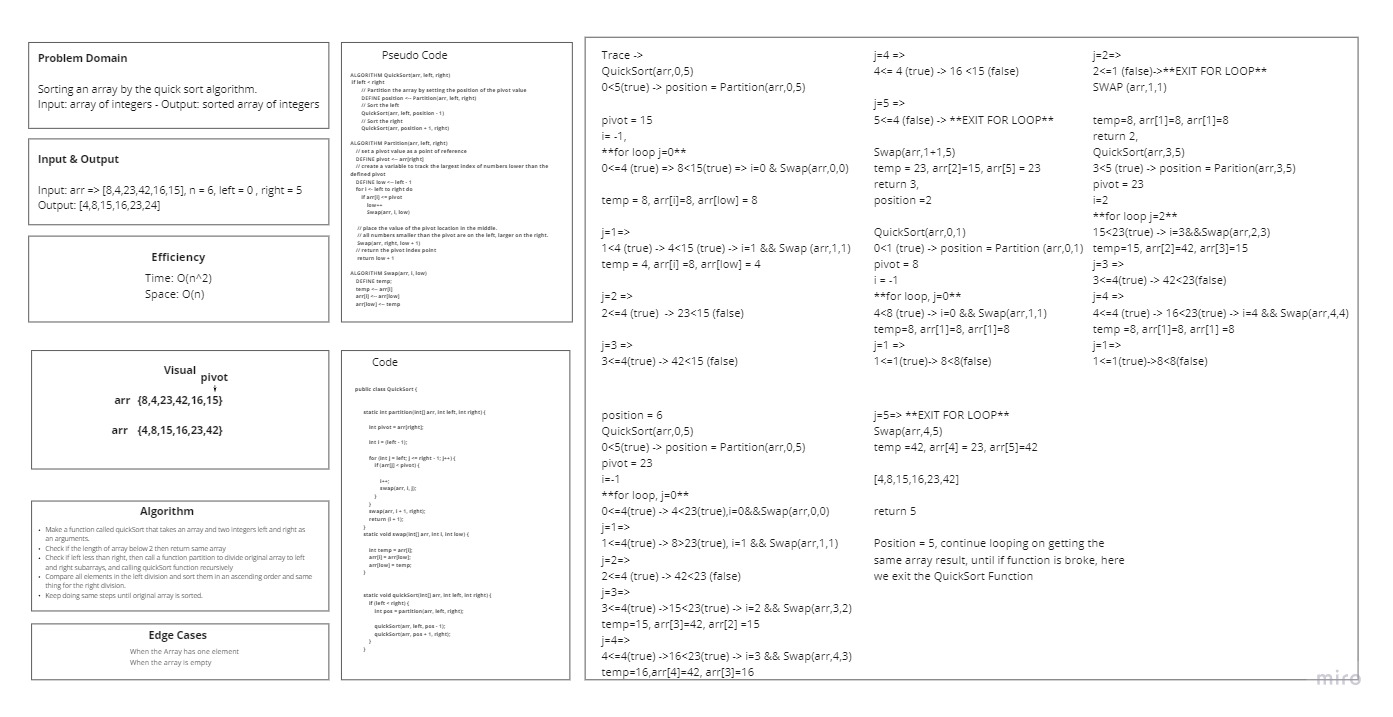
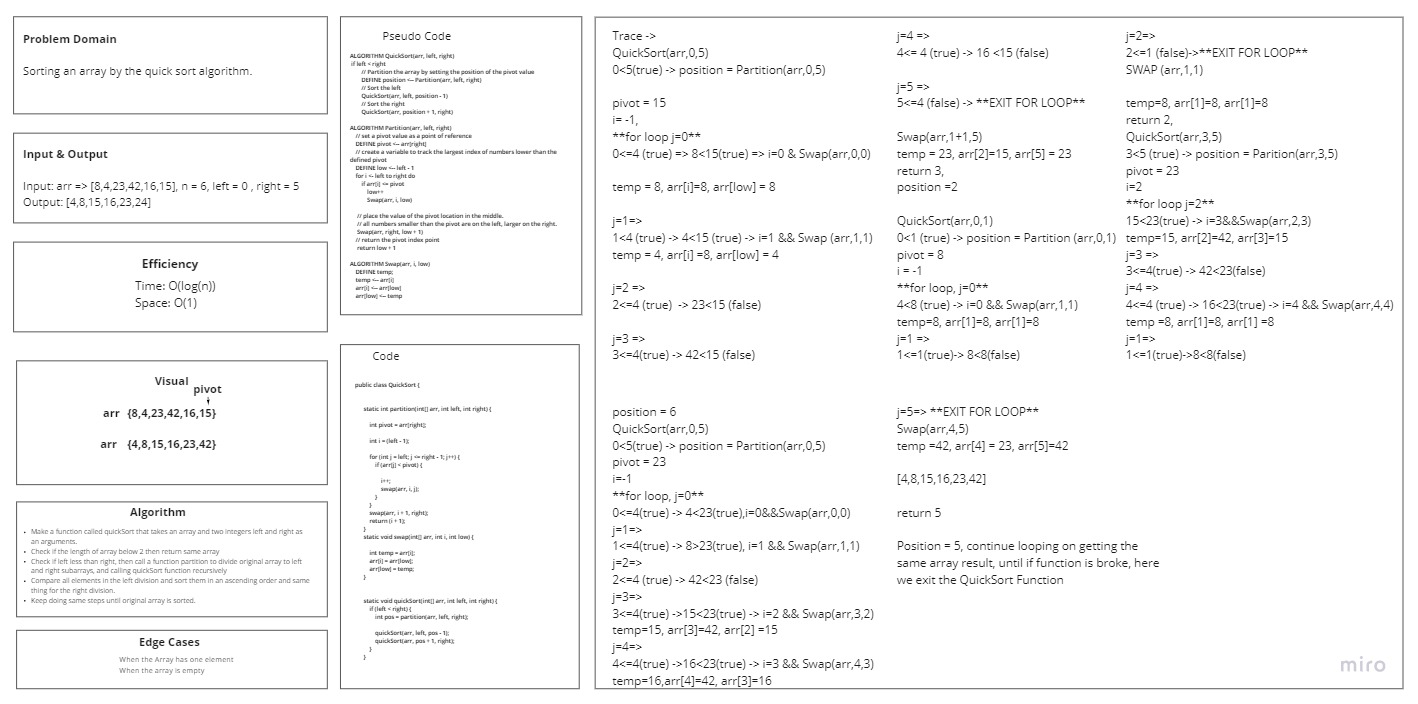
challenge 28 done

diff --git a/quickSort/BLOG.md b/quickSort/BLOG.md
@@ -8,5 +8,5 @@ Sorting an array by the quick sort algorithm.
 
 ## Approach & Efficiency
 
-- Space: O(n)
-- Time: O(n^2)
+- Space: O(1)
+- Time: O(log(n))
